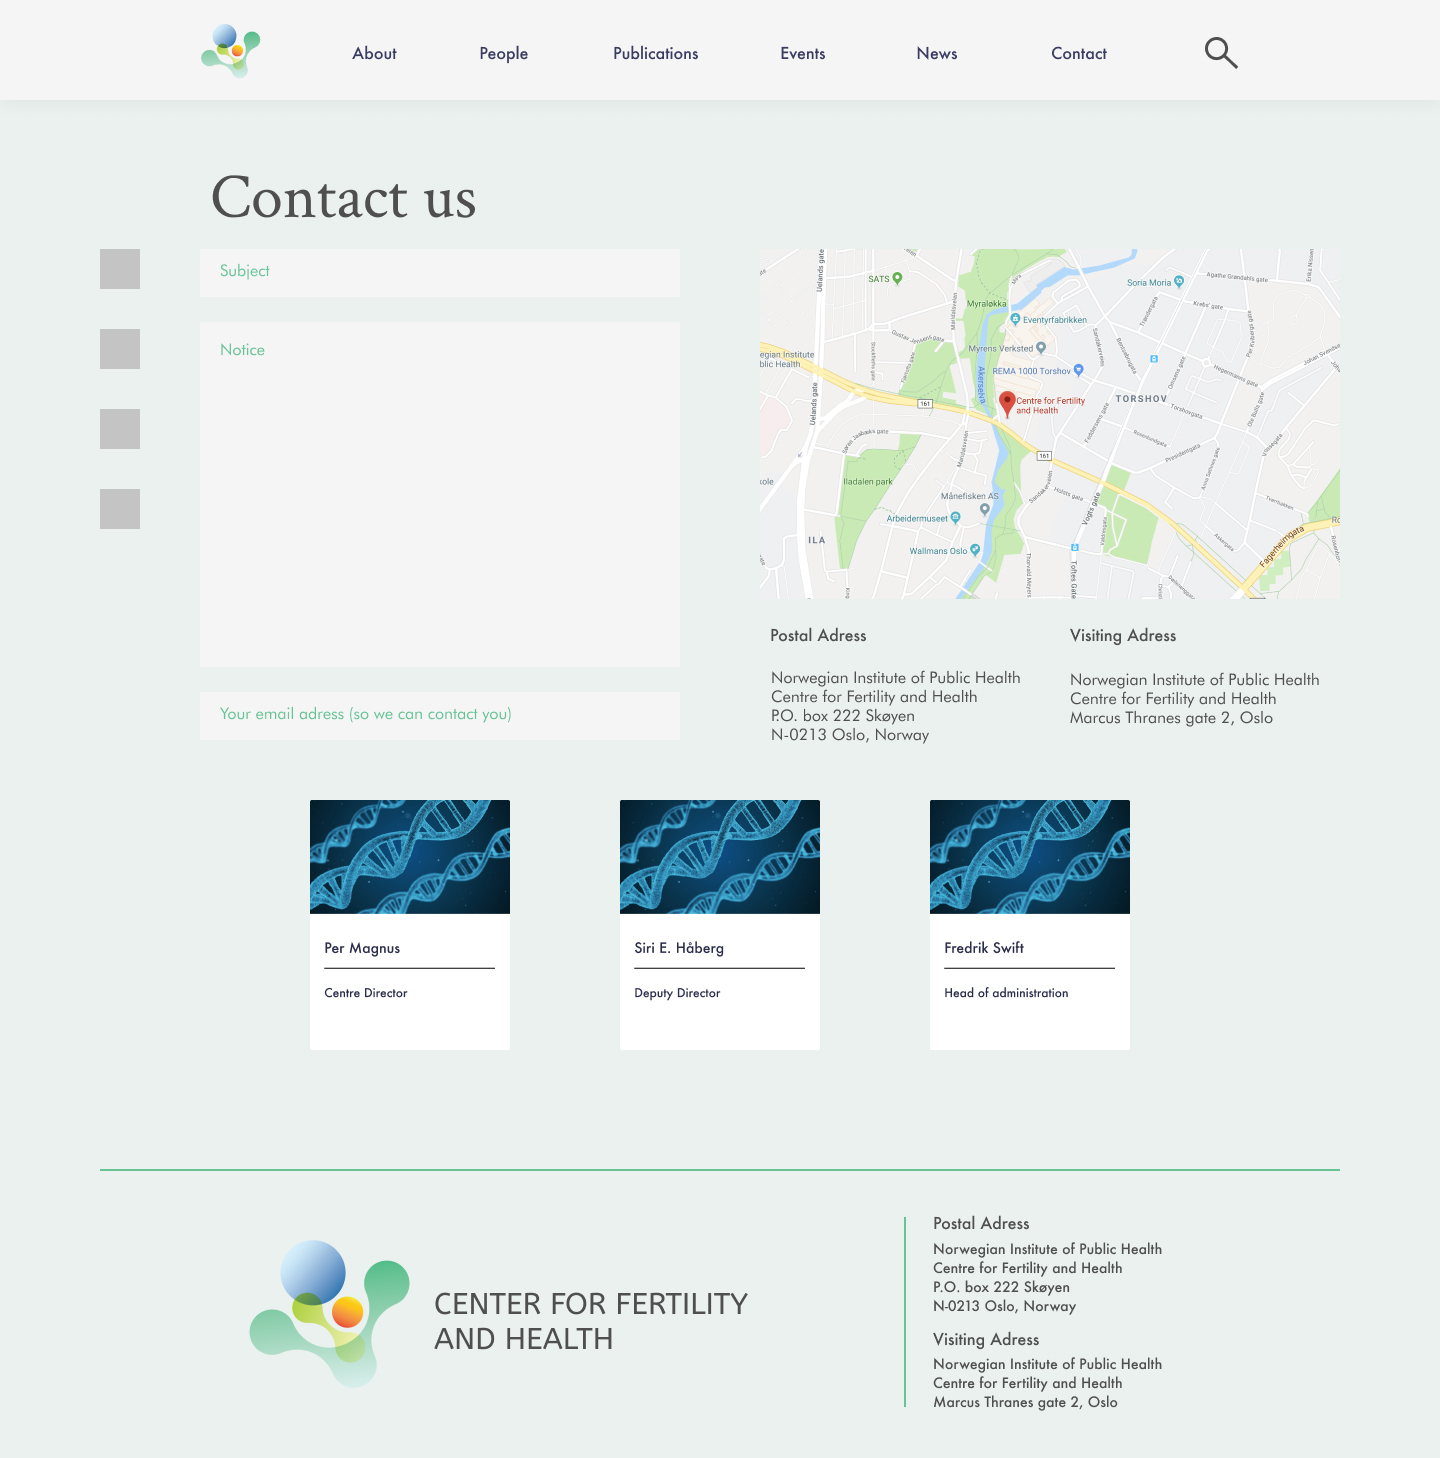
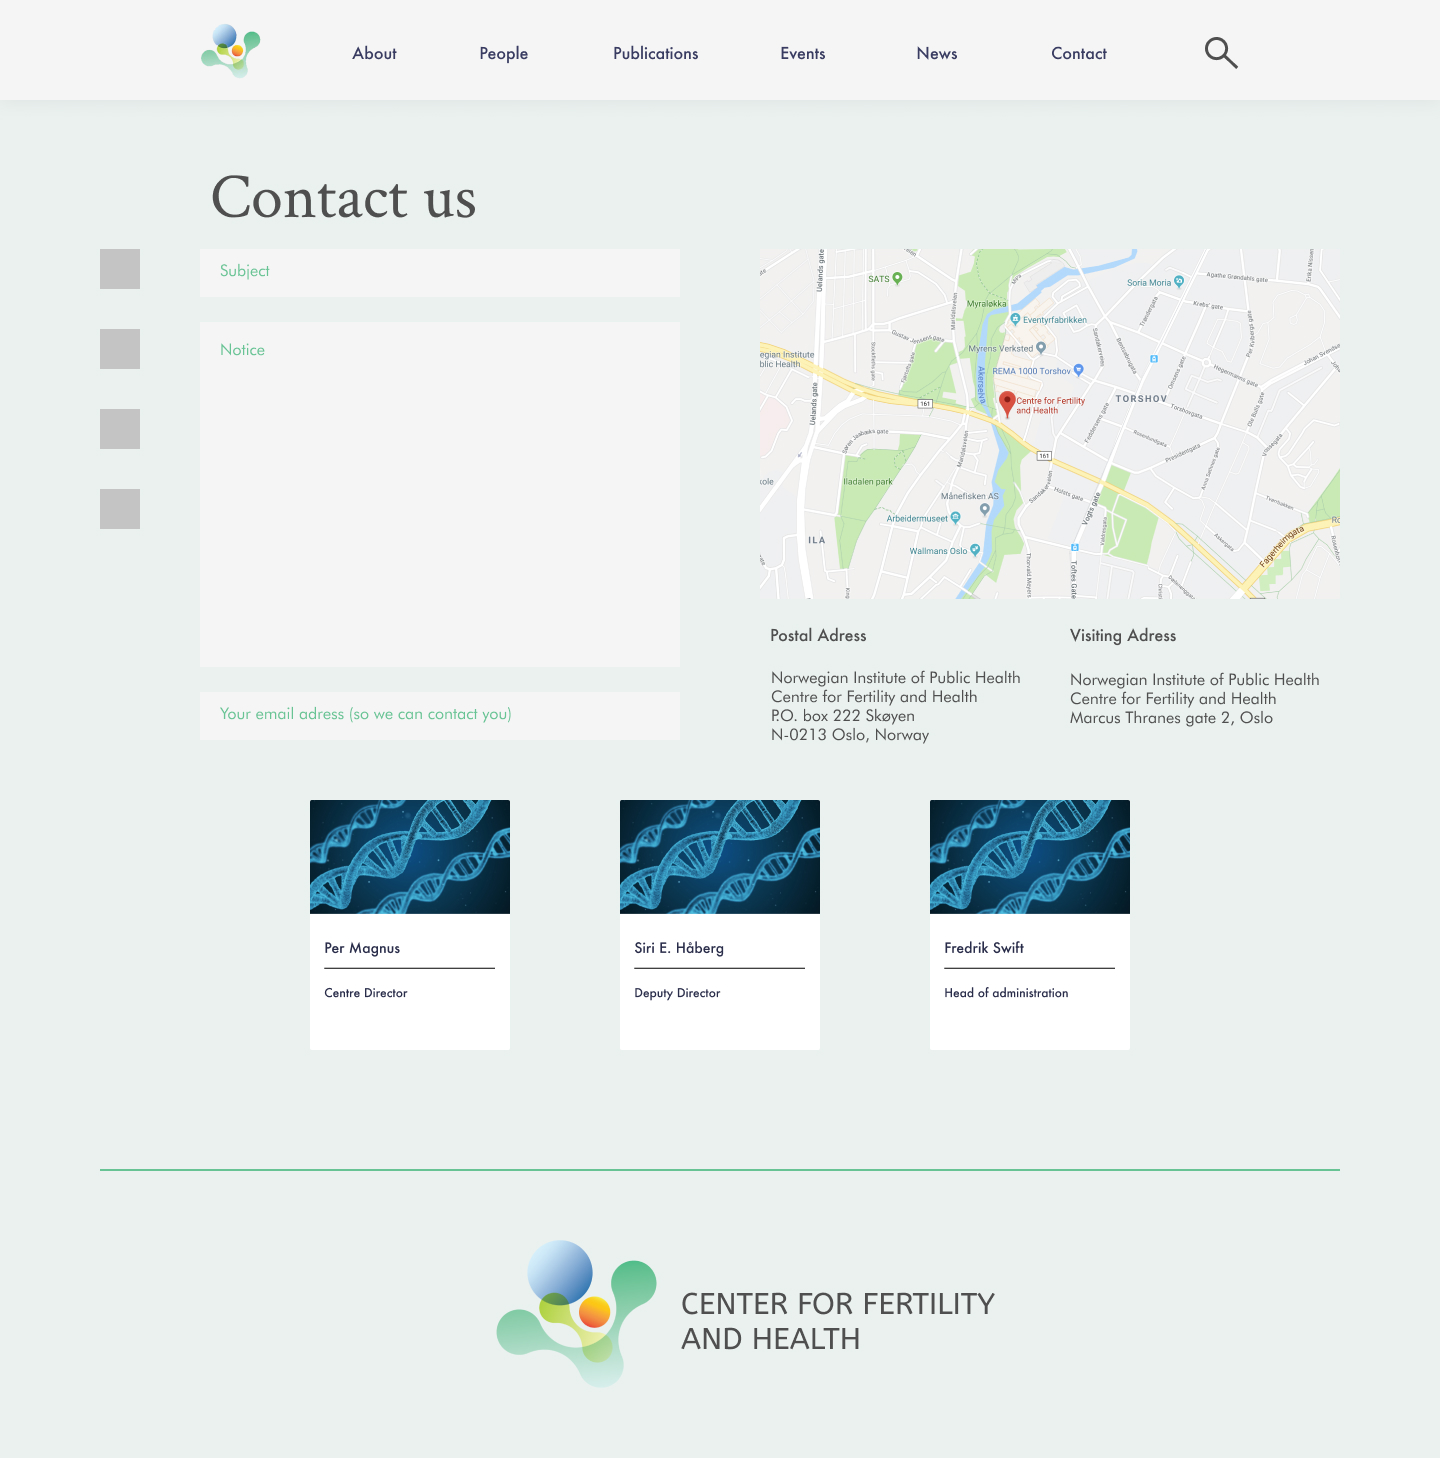
m

Changed region(s): [[0.1562, 0.8333, 0.7812, 0.9877]]

diff --git a/P2.html b/P2.html
@@ -109,7 +109,7 @@
             </li>
             <li class="sublistparent">Links
                 <ul class="sublist">
-                    <li></li>
+                    <li>When hovering a link, there will appear an underlinde - indicating that the link is clickable, as well as changing colour to green (rgb(104, 195, 148)) when hovering the link.</li>
                 </ul>
             </li>
             <li class="sublistparent">Underlines - symbols etc
@@ -263,6 +263,8 @@
                 <!-- Contact -->
                 <li>contact.html
                   <img class="mockup" alt="contact 1 mockup" src="./img/Contact1.jpg"/>
+                  <p>The contact page includes more detailed contact information for the centre than the footer. On the left side there will be clickable symbols to the centres social media profiles. In the middle there will be a form for contacting the centre instantly, and on the left there will be a map showing the centres location as well as their street- and post adresses. The visiting adresses and map will link to google maps so users can obtain easy directions. </p>
+                  <p>The profiles of the three top executives will be displayed below the contact form - linking to their profile pages for detailed contact info. The footer on this page will only contain the logo. </p>
                 </li>
               </ol>
           </div>
